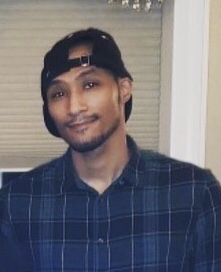
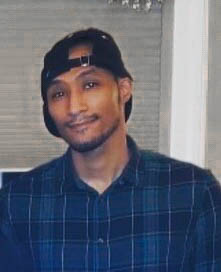
updating Wallace's bio photo and changing Bios route to /Collective

diff --git a/vue.config.js b/vue.config.js
@@ -1,22 +1,22 @@
 module.exports = {
-    pages: {
-        index: {
-          // entry for the page
-          entry: 'src/main.js',
-          // the source template
-          template: 'public/index.html',
-          // output as dist/index.html
-          filename: 'index.html',
-          // when using title option,
-          // template title tag needs to be <title><%= htmlWebpackPlugin.options.title %></title>
-          title: 'Camp Nos Collective',
-          // chunks to include on this page, by default includes
-          // extracted common chunks and vendor chunks.
-          chunks: ['chunk-vendors', 'chunk-common', 'index']
-        },
-        // when using the entry-only string format,
-        // template is inferred to be `public/subpage.html`
-        // and falls back to `public/index.html` if not found.
-        // Output filename is inferred to be `subpage.html`.
-      }
-    }
+  pages: {
+    index: {
+      // entry for the page
+      entry: 'src/main.js',
+      // the source template
+      template: 'public/index.html',
+      // output as dist/index.html
+      filename: 'index.html',
+      // when using title option,
+      // template title tag needs to be <title><%= htmlWebpackPlugin.options.title %></title>
+      title: 'Camp Nos Collective',
+      // chunks to include on this page, by default includes
+      // extracted common chunks and vendor chunks.
+      chunks: ['chunk-vendors', 'chunk-common', 'index'],
+    },
+    // when using the entry-only string format,
+    // template is inferred to be `public/subpage.html`
+    // and falls back to `public/index.html` if not found.
+    // Output filename is inferred to be `subpage.html`.
+  },
+};

diff --git a/src/views/Home.vue b/src/views/Home.vue
@@ -5,6 +5,7 @@
     <section id="bottom">
       <div id="title-and-social">
         <h1 id="site-title">@CAMPNOS</h1>
+        <a href="collective"><h2 id="collective-link"> See the Collective </h2></a>
         <div id="social-media-fonts">
           <a href="https://www.facebook.com/campnos" target="_blank" noreferrer>
             <i class="fab fa-facebook"></i>
@@ -67,4 +68,23 @@ export default {
     justify-content: center;
     height:60vh;
 }
+
+#site-title{
+    font-size:2.5rem;
+    font-weight: 100;
+}
+
+.fab,
+#collective-link{
+    color:rgb(0,244,161);
+    cursor: pointer;
+    transition: 200ms;
+    margin:0;
+}
+
+.fab:hover,
+#collective-link:hover{
+    color:rgb(222,0,247);
+}
+
 </style>

diff --git a/src/router/index.js b/src/router/index.js
@@ -8,8 +8,8 @@ const routes = [
     component: Home,
   },
   {
-    path: '/Bios',
-    name: 'Bios',
+    path: '/Collective',
+    name: 'Collective',
     // route level code-splitting
     // this generates a separate chunk (about.[hash].js) for this route
     // which is lazy-loaded when the route is visited.

diff --git a/src/views/Bios.vue b/src/views/Bios.vue
@@ -1,6 +1,6 @@
 <template>
   <div id="bios-page">
-    <img id="camp-nos-logo" :src="campNosLogo" />
+   <a href="/"> <img id="camp-nos-logo" :src="campNosLogo" /></a>
     <section id="bios">
       <Bio v-for="bio in bios" :key="bio.name" :bio="bio" />
     </section>
